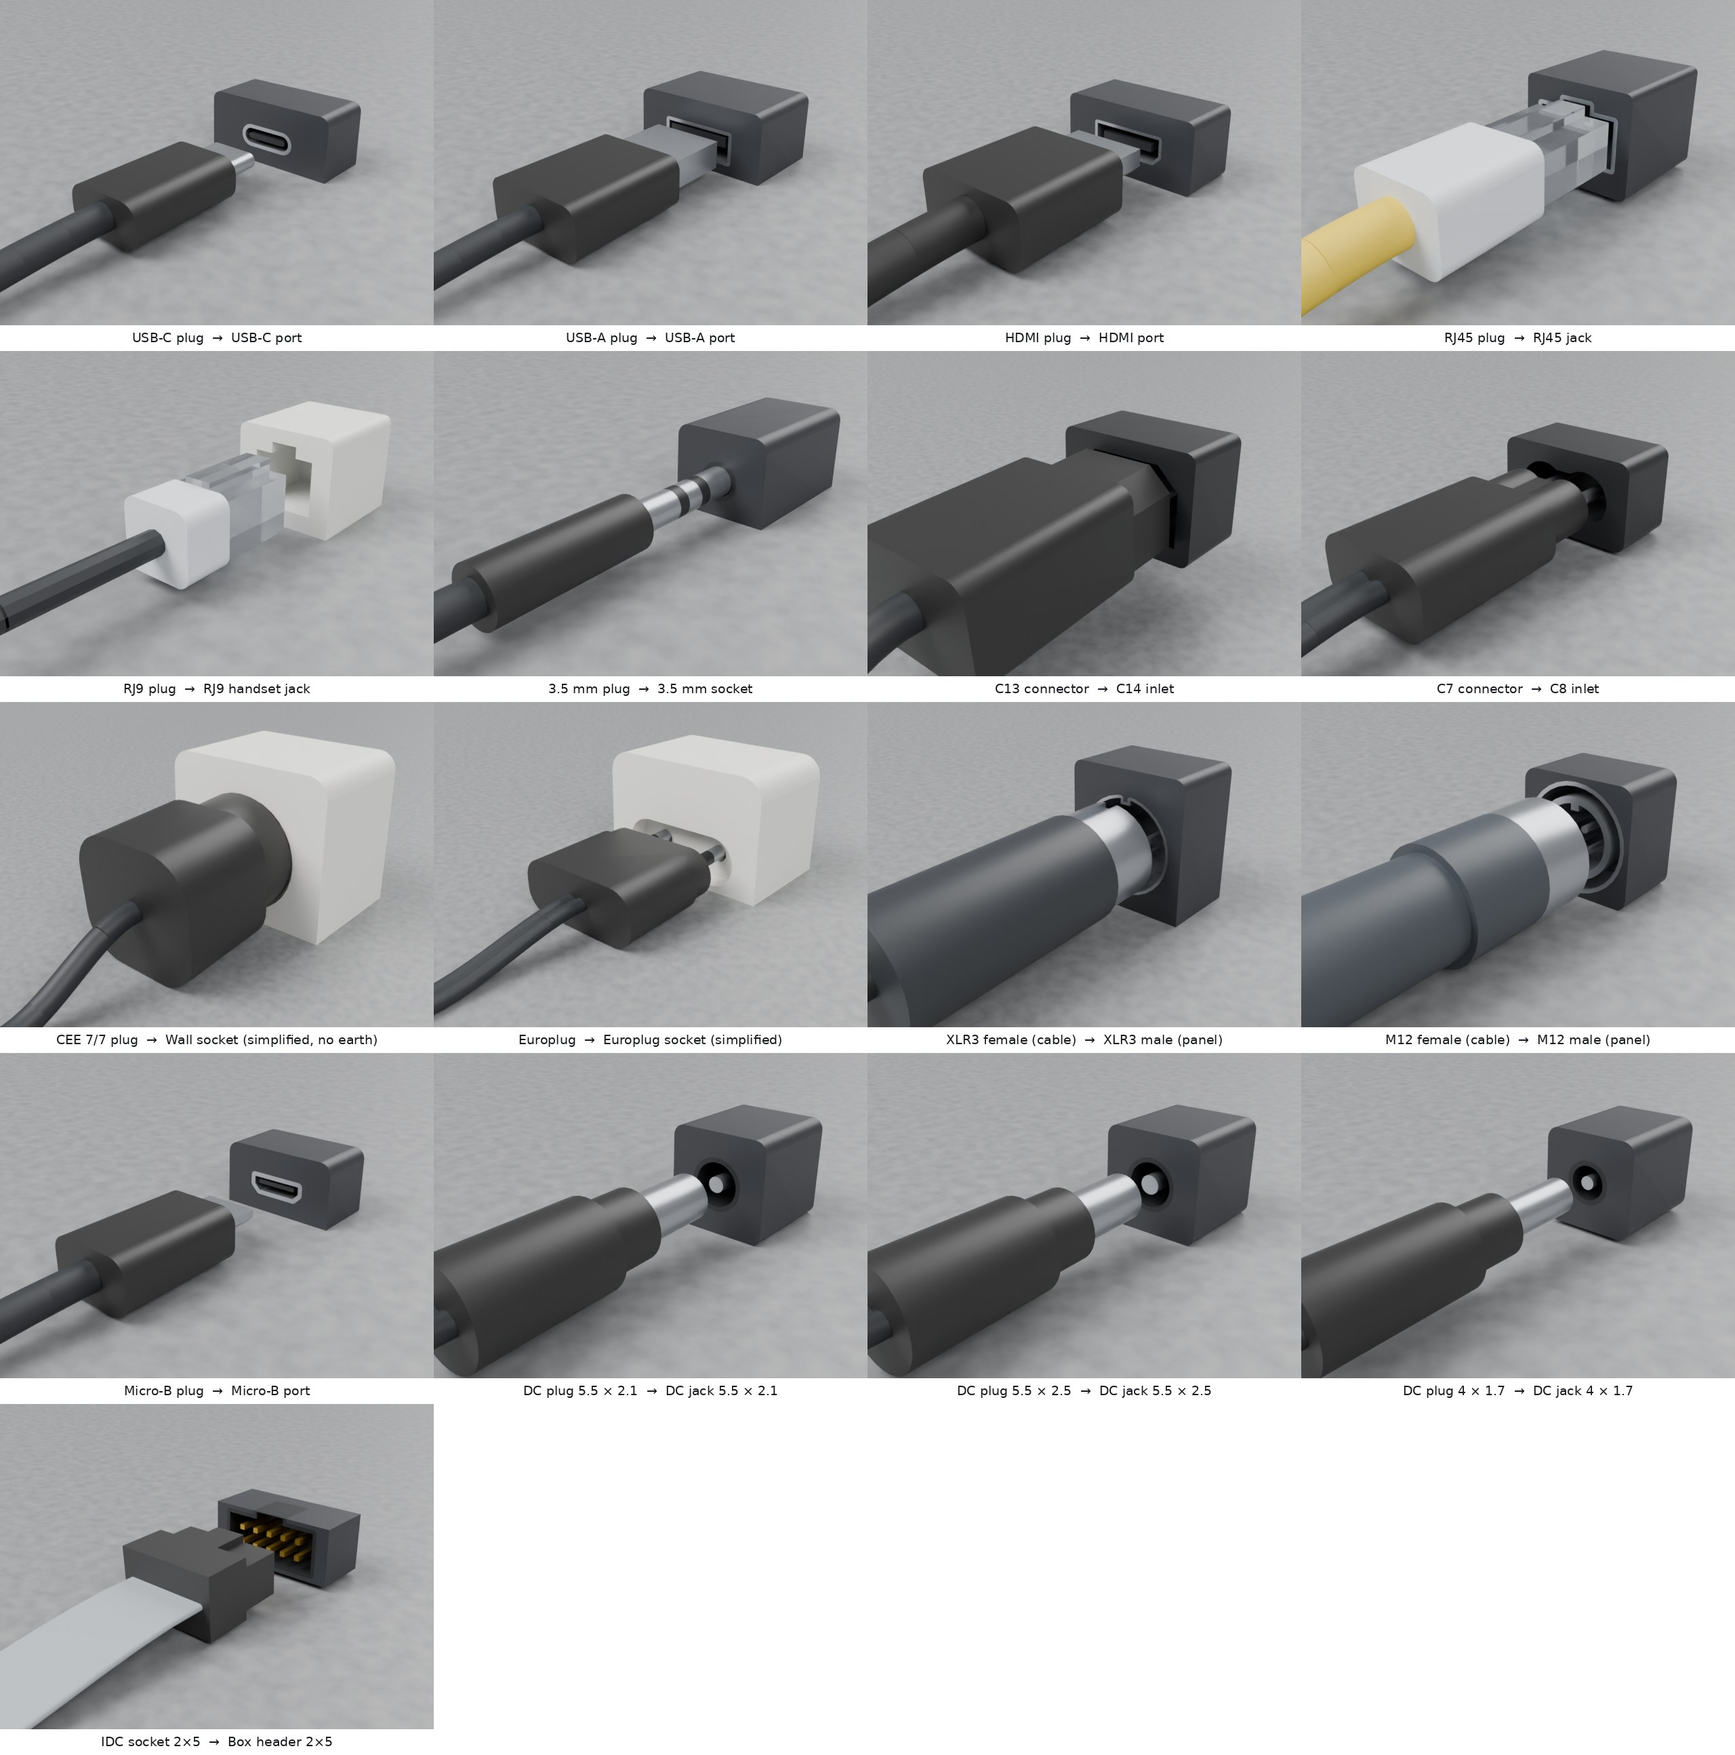
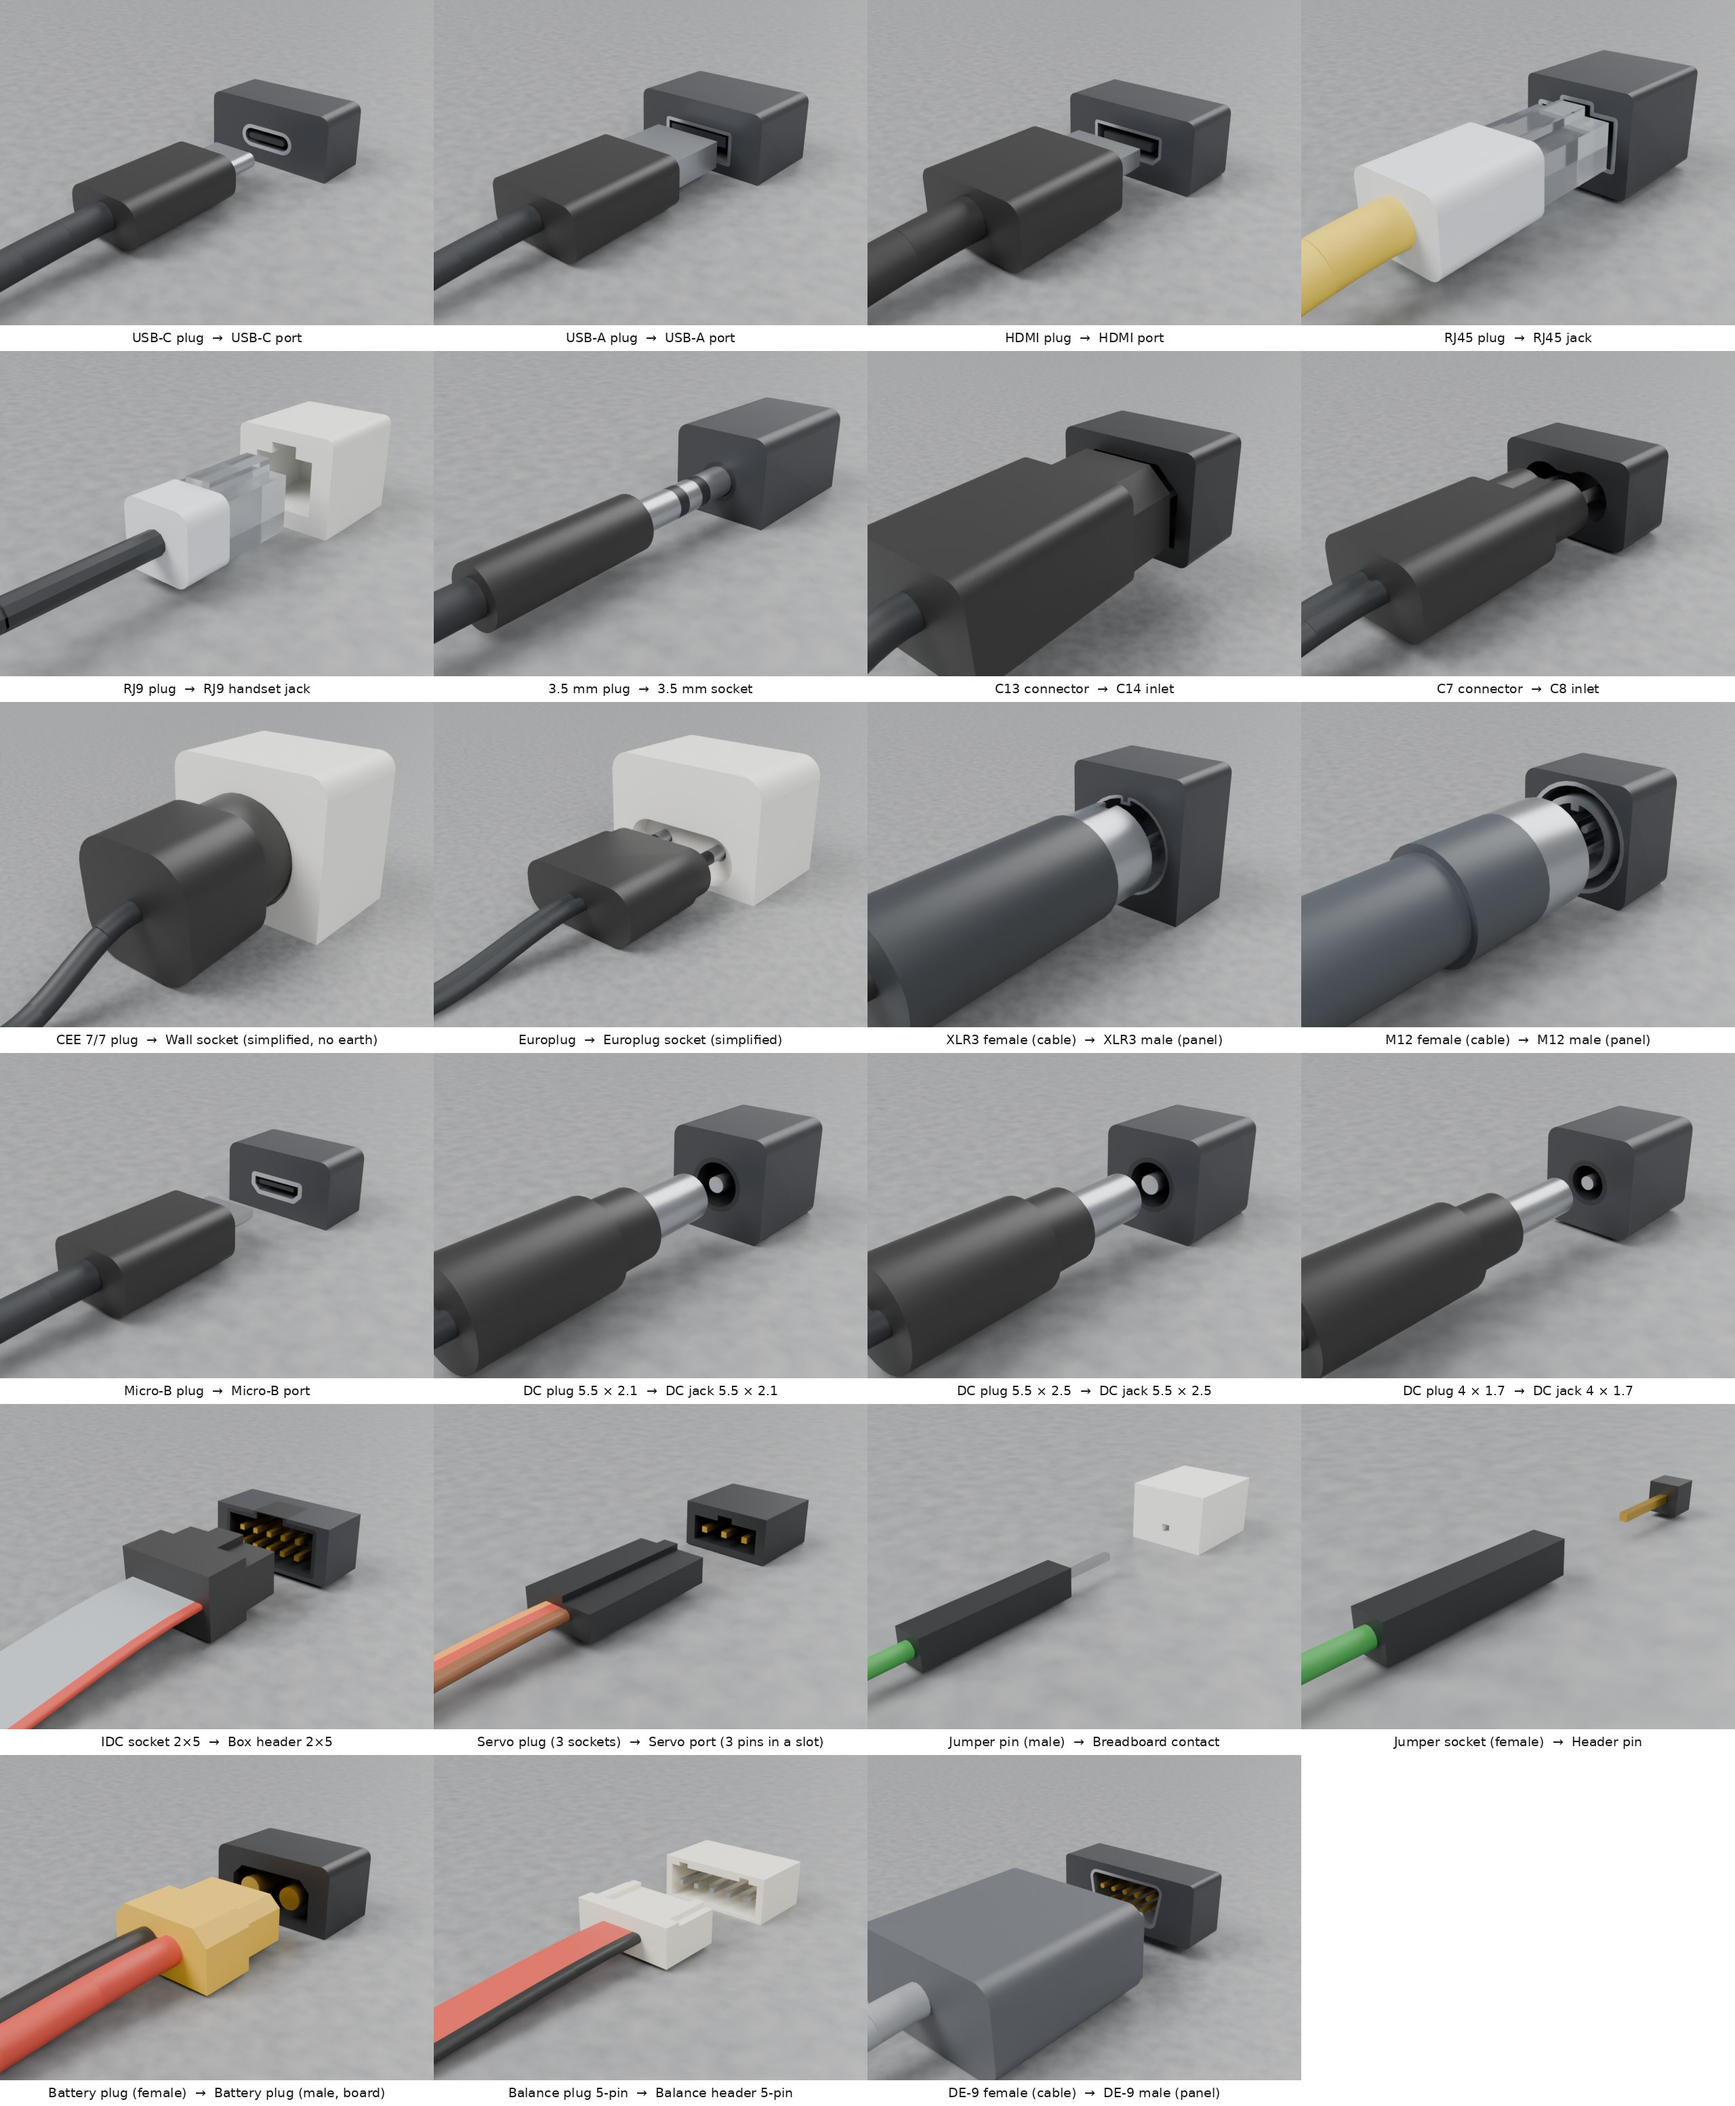
docs: README images with the robotics leads and CAN bus; wire colours on every face
- Flat and figure-8 tubes get ring vertices on the boundaries between wires,
  so each face lies on one wire and takes its colour (a flat cable's top was
  one wide face, coloured as the middle wire).
- Hero: every preset at the same length (the coiled cord keeps its own).
- Shorter names for the battery and balance receptacles.
- hero, presets, plugs and connectors images re-rendered.

Claude-Session: https://claude.ai/code/session_011SKHgX3kzSwMGzHTuKSX34

diff --git a/scripts/readme_images.py b/scripts/readme_images.py
@@ -67,9 +67,12 @@ SHOW = {
 SEEDS = {"usb_c": 3, "power_c13": 5, "hdmi": 7, "audio_jack": 4, "ethernet": 2}
 
 
-def _preset_scene(key: str, length: float = 0.4, seed: int | None = None):
-    """One cable of a preset, with the preset's first end variants (its typical cable)."""
-    length, layout = SHOW.get(key, (length, "slack"))
+def _preset_scene(key: str, length: float = 0.4, seed: int | None = None, same_length: bool = False):
+    """One cable of a preset, with the preset's first end variants (its typical cable).
+    same_length: every cable `length` long (the hero), except a coiled cord's own length."""
+    shown_length, layout = SHOW.get(key, (length, "slack"))
+    if not same_length or "coil" in PRESETS[key]:
+        length = shown_length
     return generate_scene(
         key,
         count=1,
@@ -111,7 +114,7 @@ def hero(tmp: Path, out: Path, samples: int, size=(1600, 900)):
     keys = list(PRESETS)
     args, cells = [], []
     for k, key in enumerate(keys):
-        folder = write_outputs(_preset_scene(key, 0.62), tmp / "hero", physics=False)
+        folder = write_outputs(_preset_scene(key, 0.62, same_length=True), tmp / "hero", physics=False)
         usd = folder / f"filaire_{key}.usdc"
         lo, hi = _bbox(usd)
         col, row = divmod(k, (len(keys) + 1) // 2)

diff --git a/src/filaire/cable.py b/src/filaire/cable.py
@@ -96,7 +96,17 @@ def _ring(profile: tuple, segments: int = 16) -> np.ndarray:
         a = np.linspace(0, 2 * math.pi, segments, endpoint=False)
         return np.c_[r * np.cos(a), r * np.sin(a)]
     region = profile_region(profile).simplify(0.02 * profile_region(profile).bounds[3])
-    return g2.ring_points(region)
+    ring = g2.ring_points(region)
+    # vertices on the boundaries between side-by-side wires, so that each face of the tube lies
+    # on one wire and takes its colour (stripes): a flat cable's top is otherwise one wide face
+    cores, _ = _core_layout(profile, profile[1] if kind == "flat" else 2)
+    cuts = (cores[1:, 0] + cores[:-1, 0]) / 2
+    out = []
+    for p, q in zip(ring, np.roll(ring, -1, axis=0), strict=True):
+        out.append(p)
+        ts = sorted((x - p[0]) / (q[0] - p[0]) for x in cuts if (p[0] - x) * (q[0] - x) < 0)
+        out += [p + t * (q - p) for t in ts if 1e-6 < t < 1 - 1e-6]
+    return np.array(out)
 
 
 # ----------------------------------------------------------------- the cable

diff --git a/src/filaire/connectors.py b/src/filaire/connectors.py
@@ -606,9 +606,9 @@ CONNECTORS: dict[str, ConnectorSpec] = {
         panel=(4.0, g2.rrect(20.0, 12.0, 1.5)),
         clearance=0.1,
         density=2200.0,
-        plug_name="Battery plug (female, battery side)",
-        inline_name="Battery plug (male, device lead)",
-        panel_name="Battery plug (male, board mount)",
+        plug_name="Battery plug (female)",
+        inline_name="Battery plug (male, lead)",
+        panel_name="Battery plug (male, board)",
         socket_insert=_GOLD,
         insert_metal=True,
         panel_color=_BLACK,
@@ -632,7 +632,7 @@ CONNECTORS: dict[str, ConnectorSpec] = {
         clearance=0.1,
         density=1300.0,
         plug_name="Balance plug 5-pin",
-        panel_name="Balance header 5-pin (charger, BMS)",
+        panel_name="Balance header 5-pin",
         socket_insert=_METAL,
         insert_metal=True,
         panel_color="#efe9d8",
